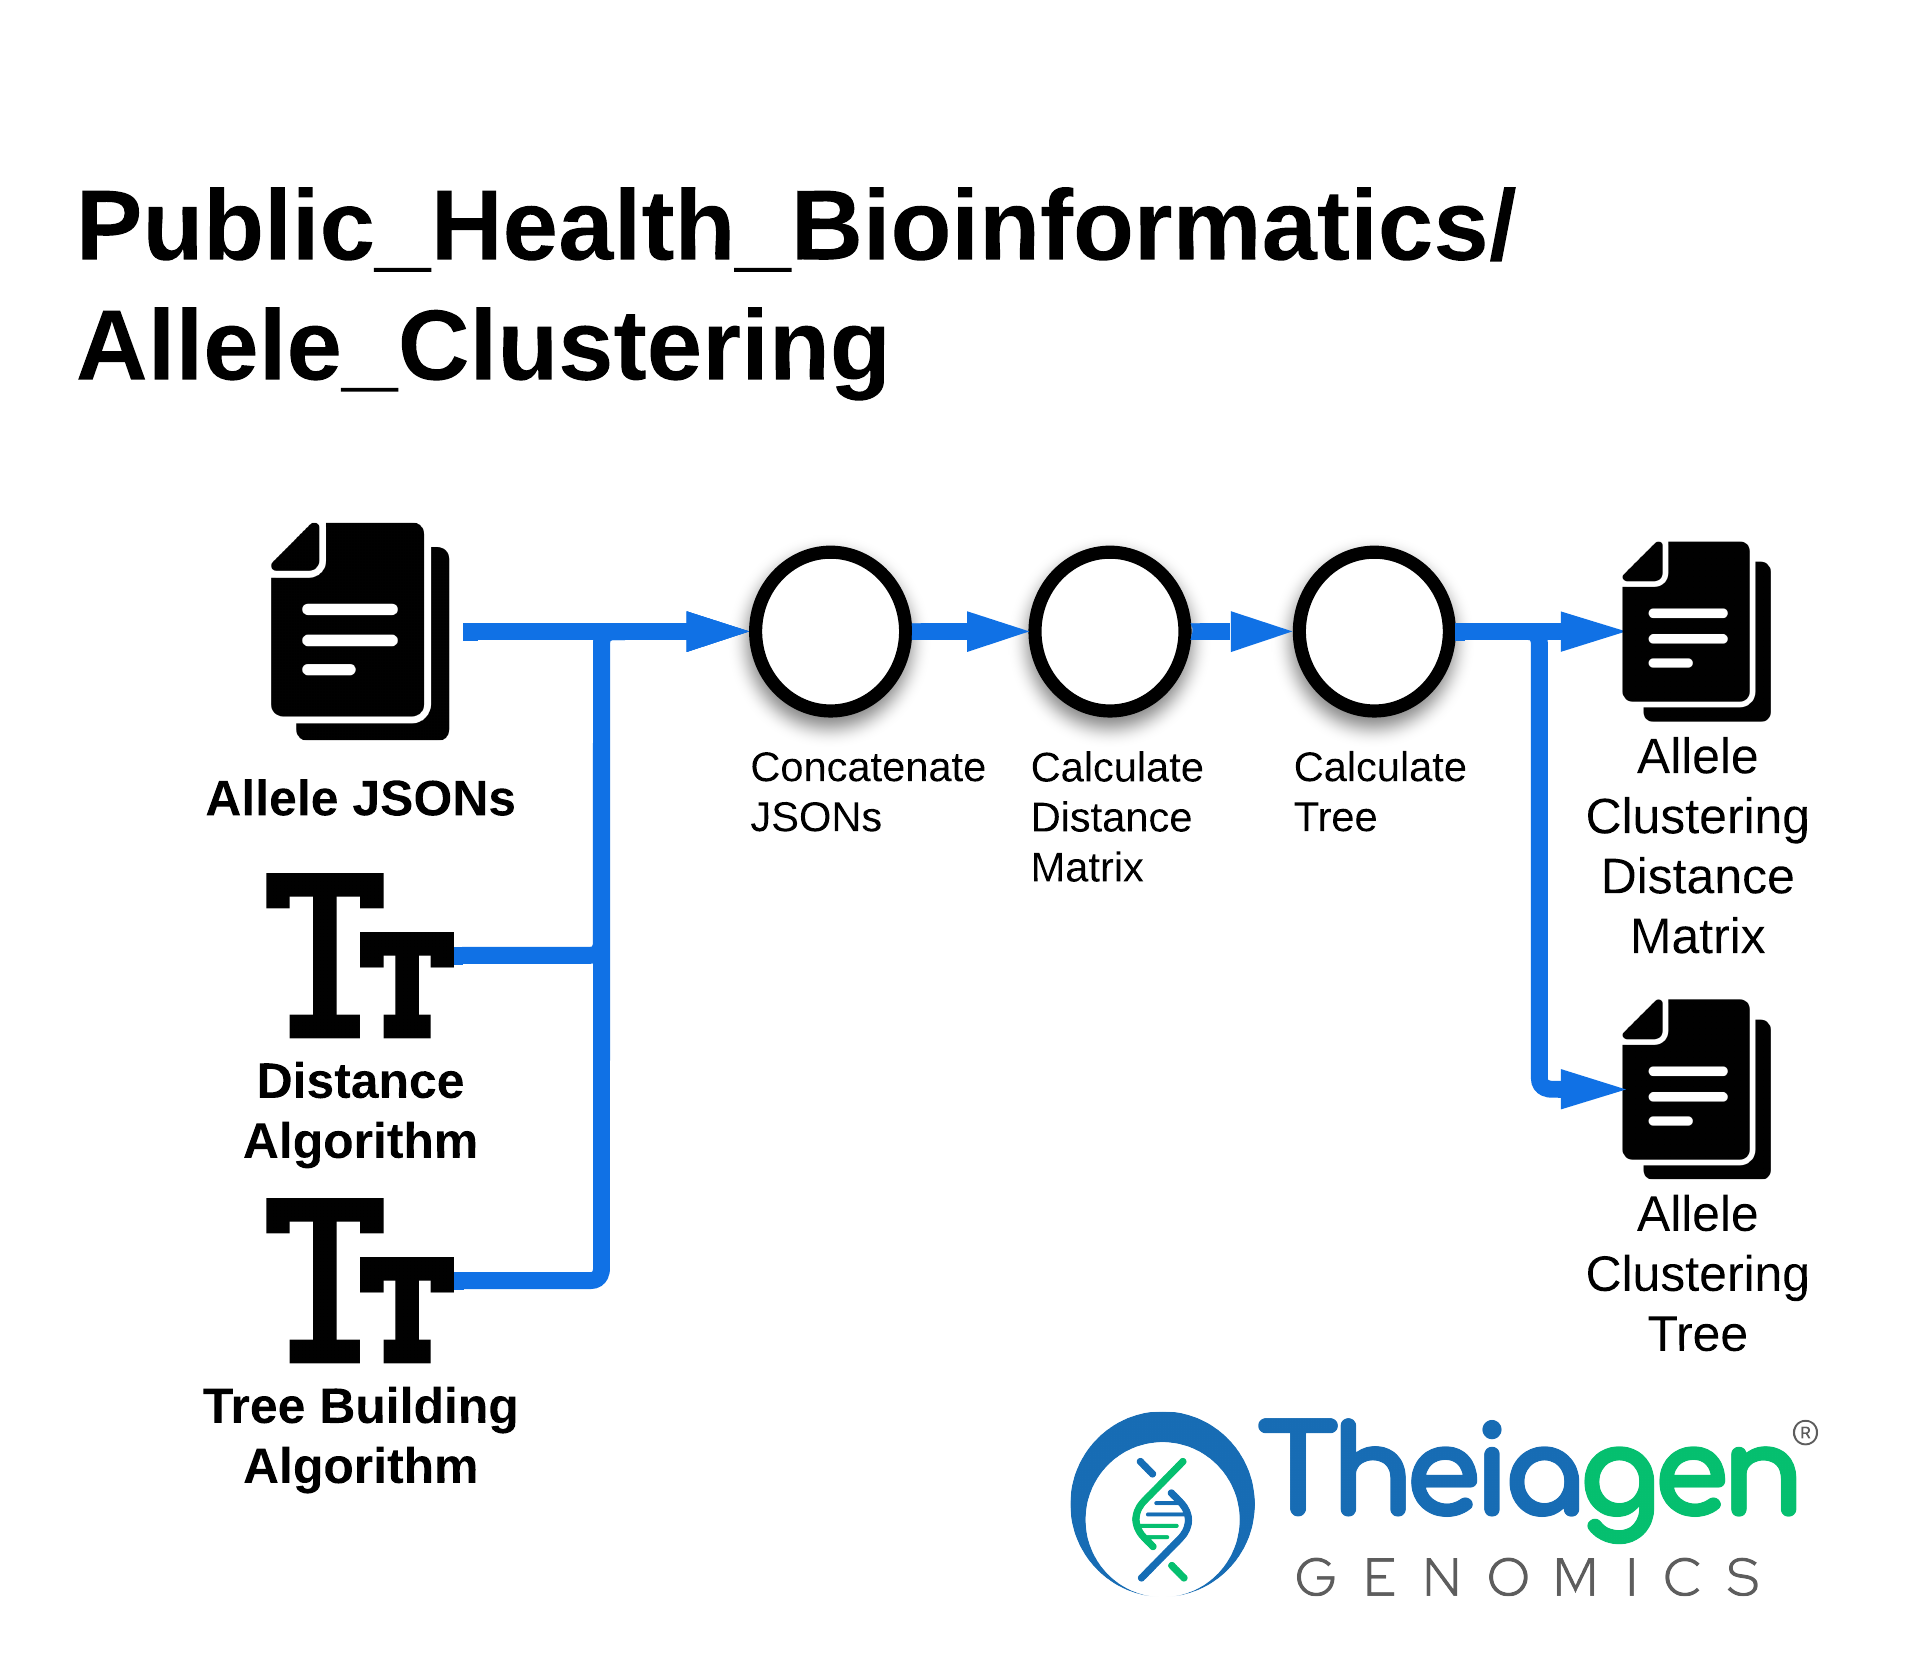
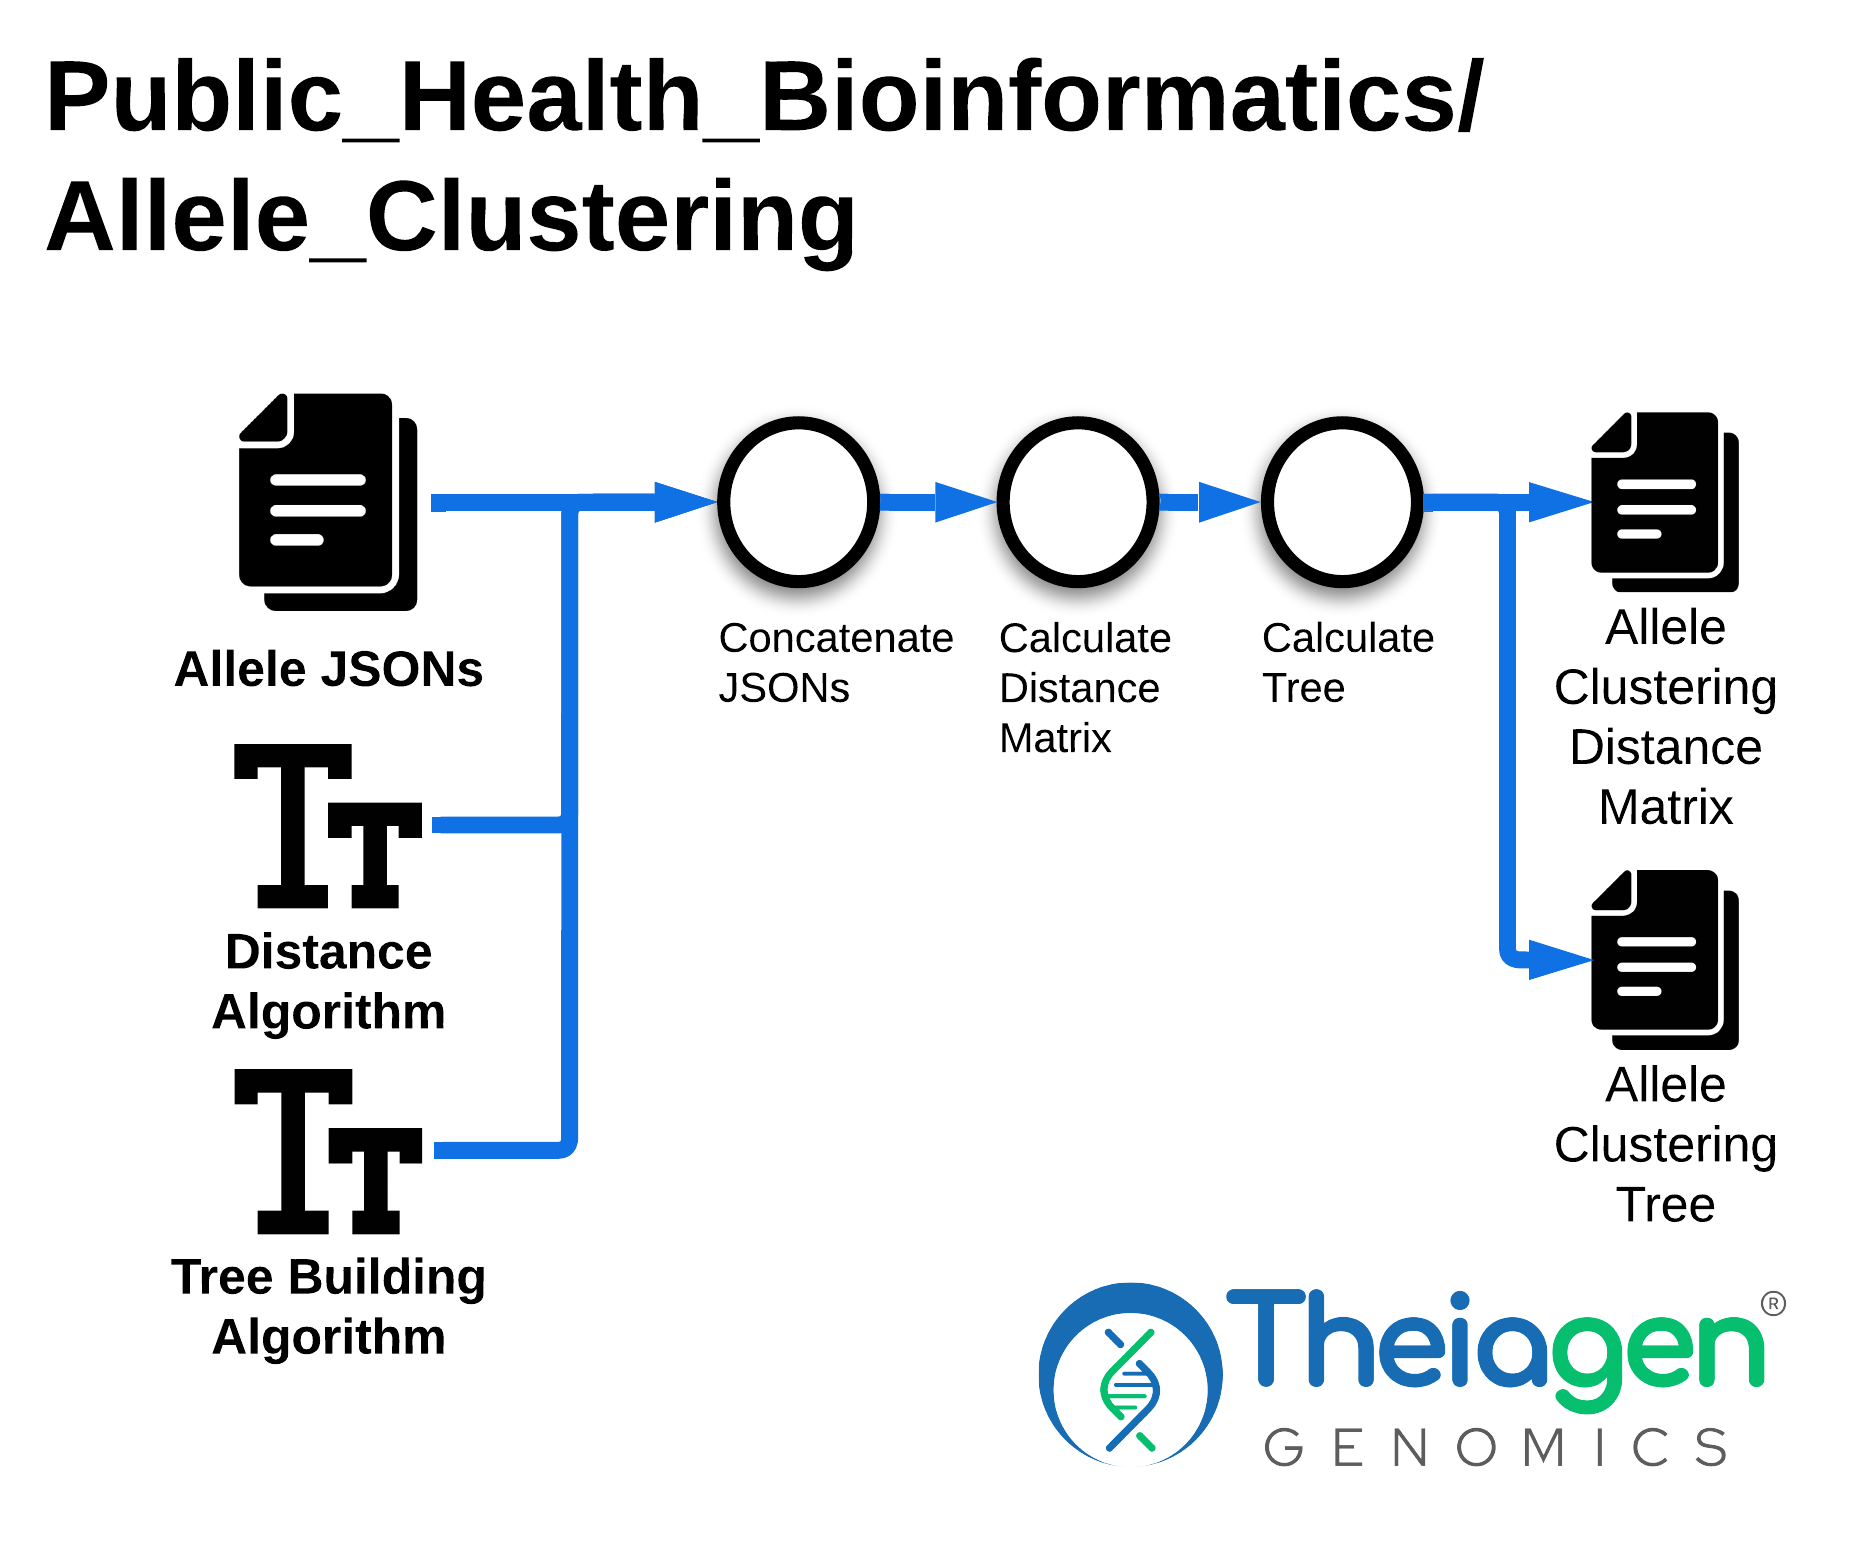
modifications to docs

Changed region(s): [[0.0, 0.0311, 0.9688, 0.9021], [0.5312, 0.8088, 0.9688, 0.9644], [0.5625, 0.2489, 0.5938, 0.28]]

diff --git a/docs/workflows/phylogenetic_construction/allele_clustering.md b/docs/workflows/phylogenetic_construction/allele_clustering.md
@@ -6,20 +6,18 @@
 
 ## Allele_Clustering_PHB
 
-The Allele_Clustering_PHB workflow provives tools for generating **distance matrices** and inferring **distance-based trees** from core- or whole-genome allele profiles produced by the [TheiaProk™ suite of workflows](../workflows/genomic_characterization/theiaprok.md).
+The Allele_Clustering_PHB workflow provides tools for generating **distance matrices** and inferring **distance-based trees** from core- or whole-genome allele profiles produced by the [TheiaProk workflows](../workflows/genomic_characterization/theiaprok.md).
 
 This workflow supports:
 
 - Calculation of **absolute or normalized allele differences** between samples in a set;
 - **Tree inference** using UPGMA, single-linkage, complete-linkage, neighbor-joining, and minimum-spanning tree algorithms;
-- Generation of trees directly from **TheiaProk's Allele Calling hashes**, which represent hierarchical groupings based on the provided  core- or whole-genome MLST results.
+- Generation of trees directly from **TheiaProk's Allele Calling hashes**, which represent hierarchical groupings based on the provided core- or whole-genome MLST results.
 
-=== "Allele_Clustering_PHB"
-
-    !!! caption "Allele Clustering Workflow Overview"
-        <div style="text-align: center;">
-        ![Allele Clustering workflow taking cg- or wgMLST results and generating a dendogram in Newick format and an allele difference distance matrix.](../../assets/figures/Allele_Clustering.png){: onload="this.width/=2;this.onload=null;" }
-        </div>
+!!! caption "Allele Clustering Workflow Overview"
+    <div style="text-align: center;">
+    ![Allele Clustering workflow taking cg- or wgMLST results and generating a dendrogram in Newick format and an allele difference distance matrix.](../../assets/figures/Allele_Clustering.png){: onload="this.width/=2;this.onload=null;" }
+    </div>
 
 ### Inputs
 

diff --git a/docs/common_text/allele_clustering_task.md b/docs/common_text/allele_clustering_task.md
@@ -4,7 +4,7 @@ fragment: true
 ---
 
 ??? task "`allele_clustering`: PulseNet 2.0 Hash-Based Allele Clustering"
-    The Allele Clustering module is used by PulseNet 2.0 to generate NWK trees for visualization, using the results from the `allele_clustering` task available on the [TheiaProk™ suite of workflows](../workflows/genomic_characterization/theiaprok.md).
+    The Allele Clustering module is used by PulseNet 2.0 to generate NWK trees for visualization, using the results from the `allele_clustering` task available in the [TheiaProk workflows](../workflows/genomic_characterization/theiaprok.md).
 
     To run this task, a tree building algorithm and distance algorithm must be specified; these options are available in the [inputs](#inputs) section of the workflow documentation.
 
